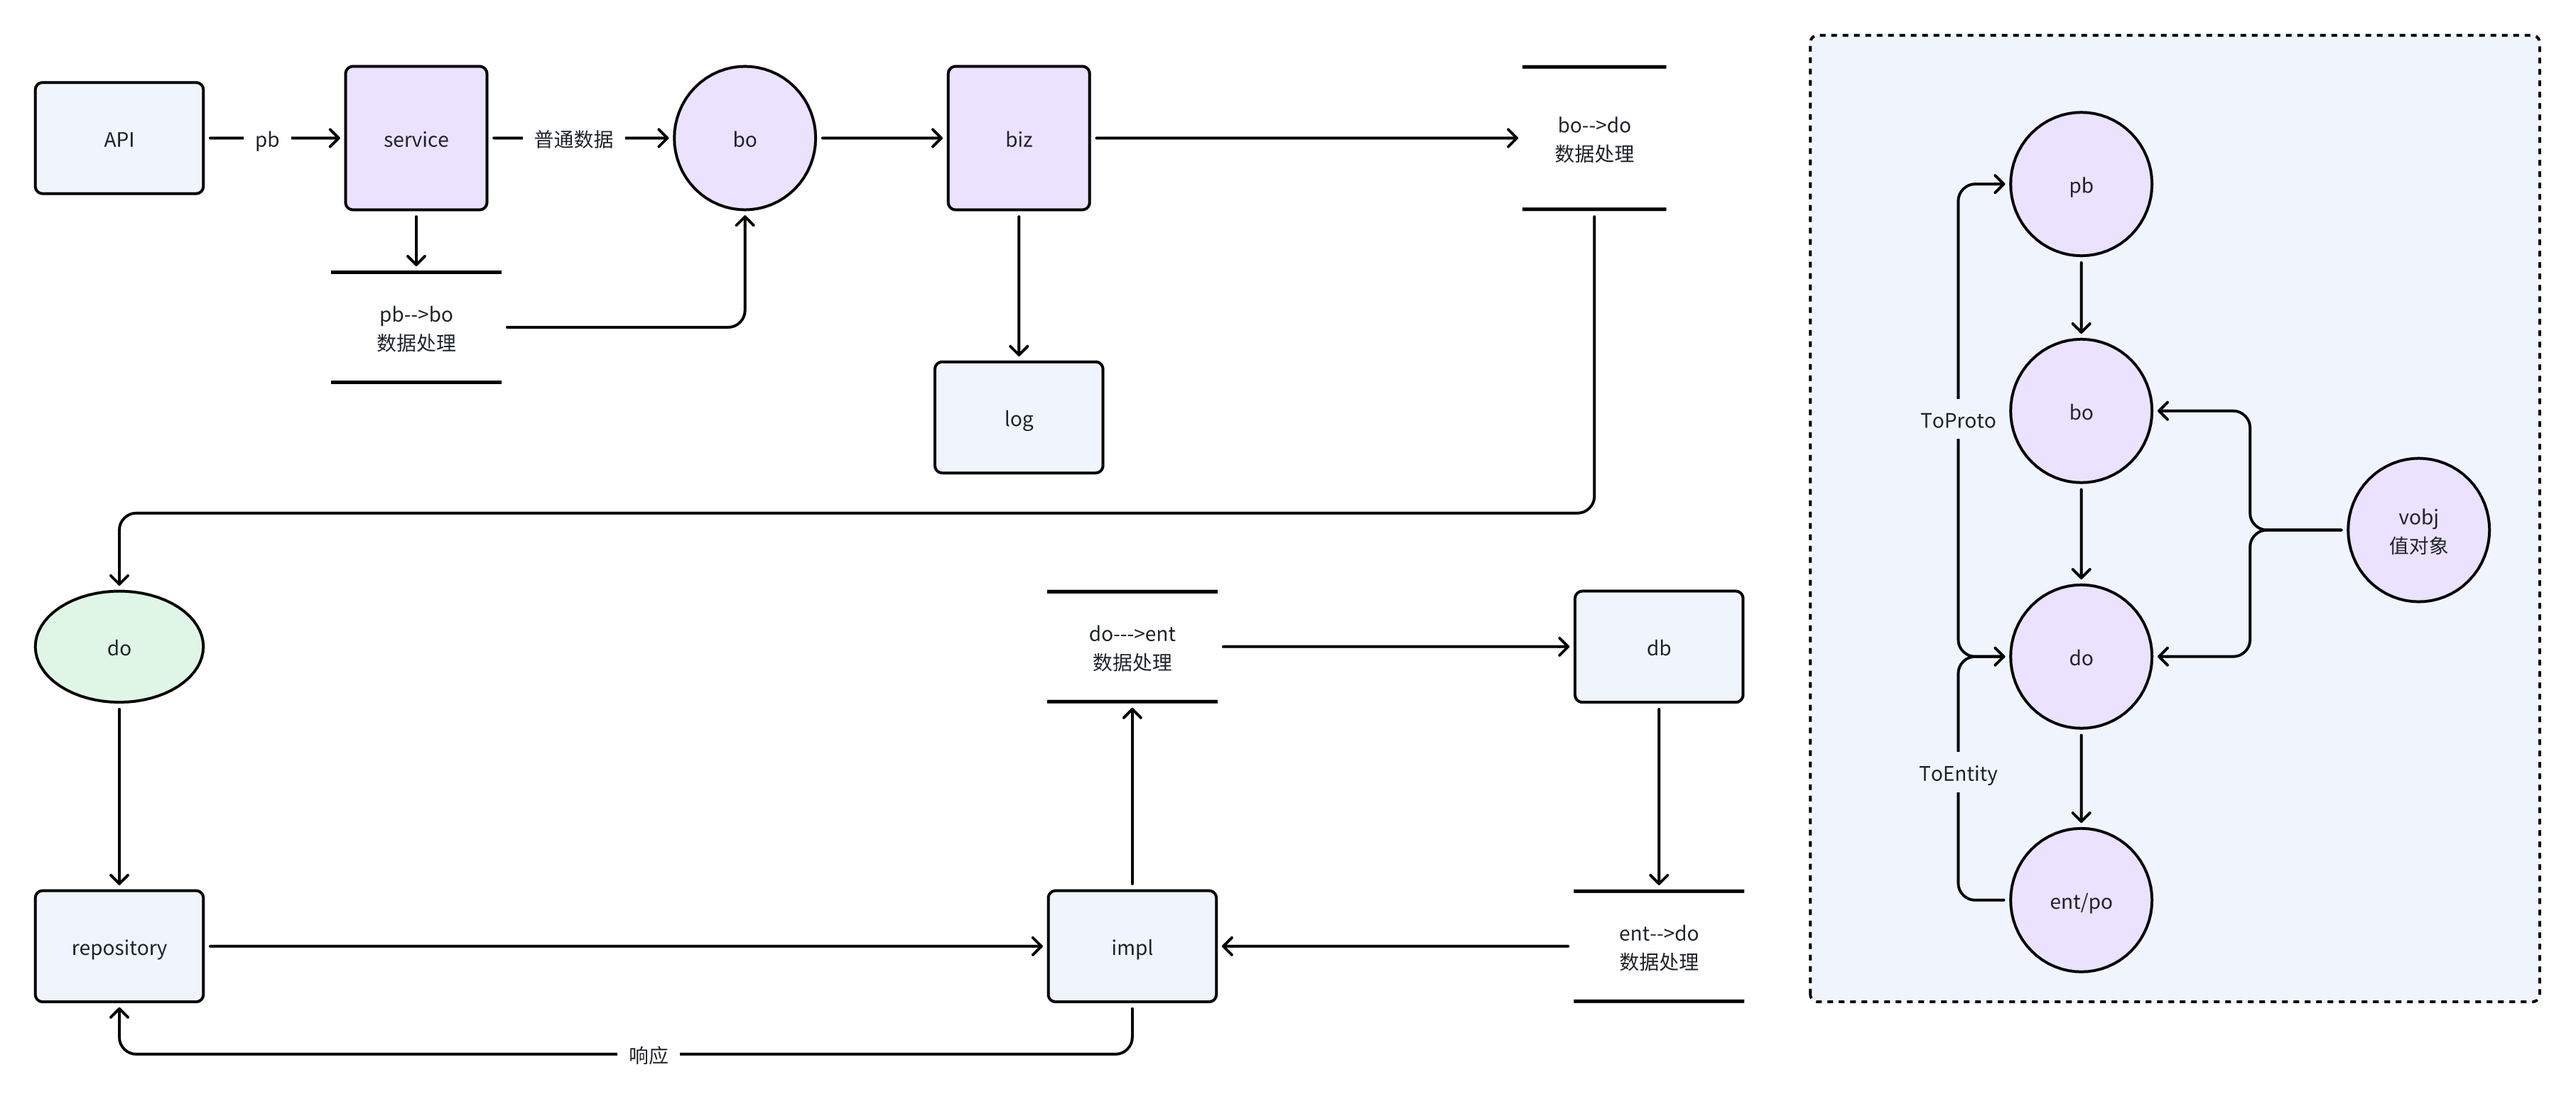
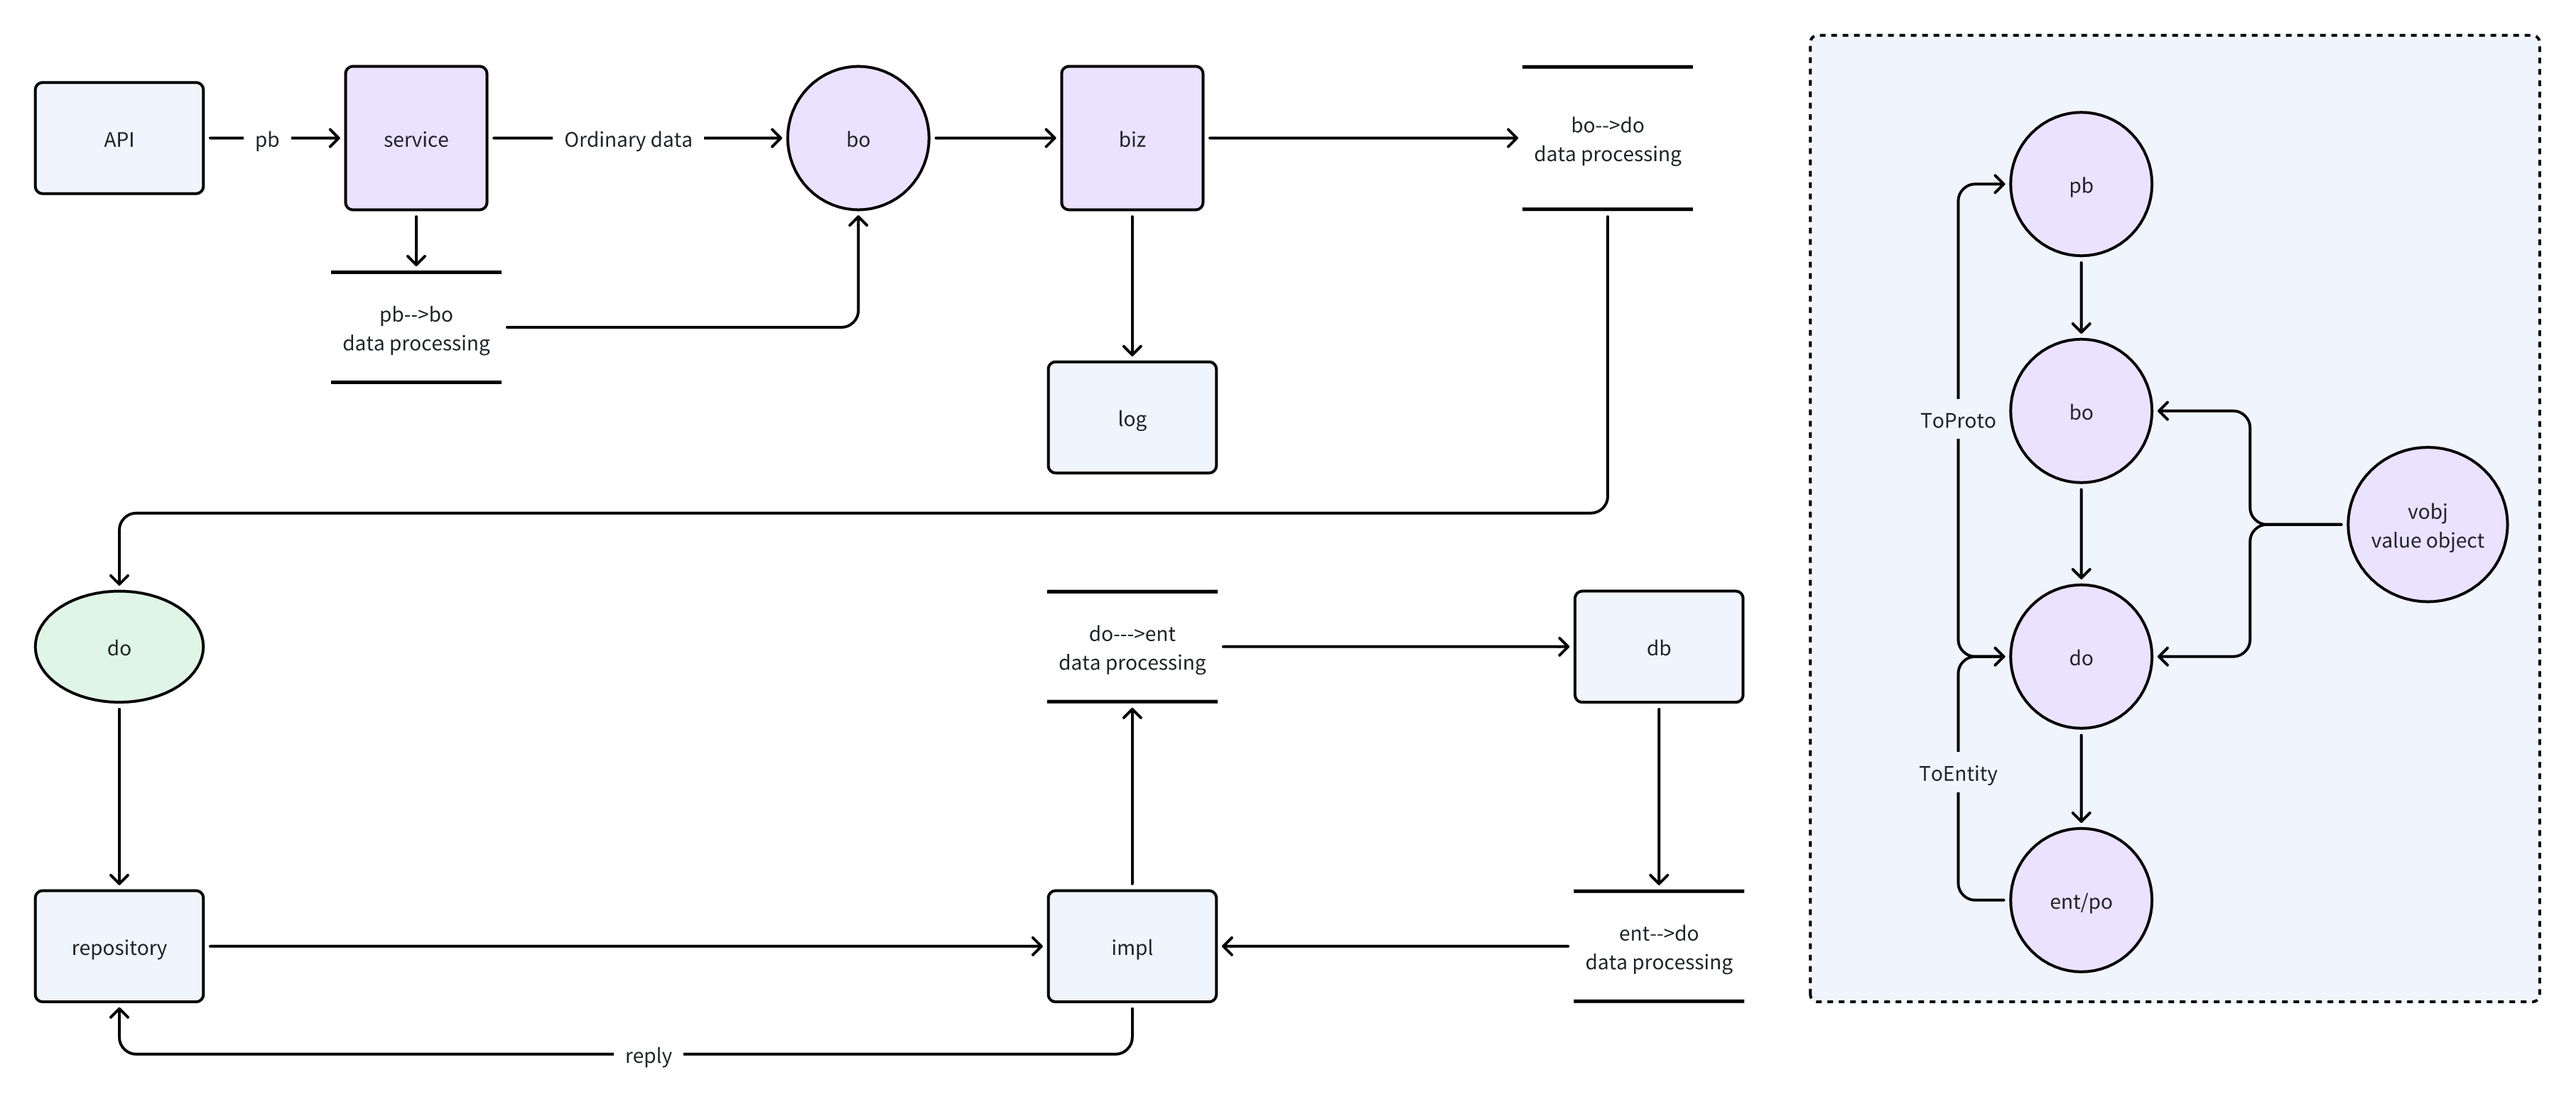
docs(dev): update image reference in Chinese development guide
- Change image reference from go-ddd.png to go-ddd.zh-CN.png in DEV.zh-CN.md

diff --git a/docs/dev/DEV.zh-CN.md b/docs/dev/DEV.zh-CN.md
@@ -101,7 +101,7 @@ make all
   * db
   * impl
 
-![go-ddd.png](../images/go-ddd.png)
+![go-ddd.png](../images/go-ddd.zh-CN.png)
 
 ## 依赖倒置
 
